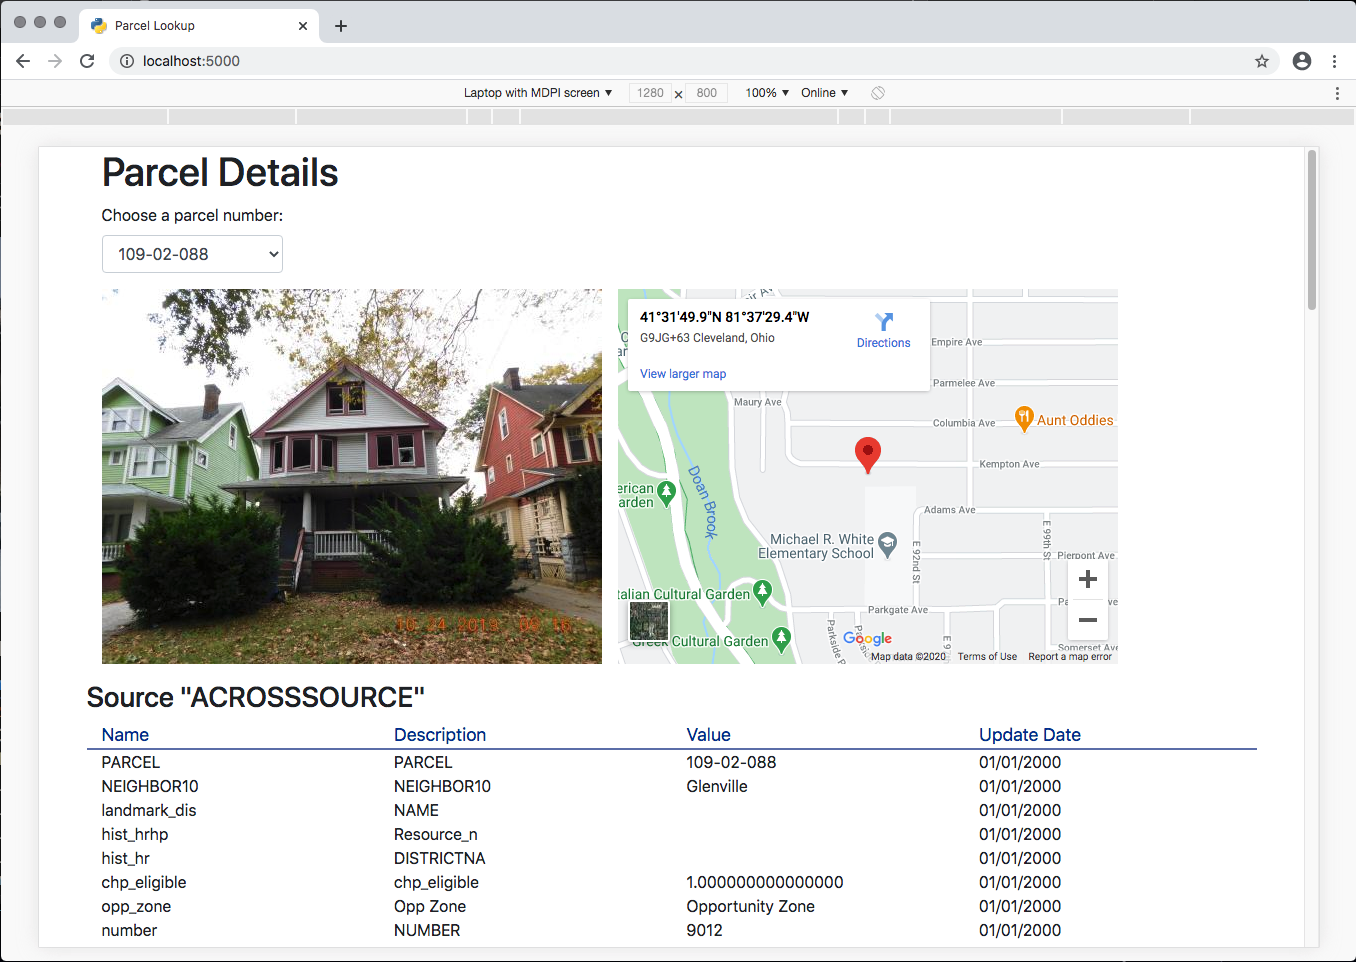
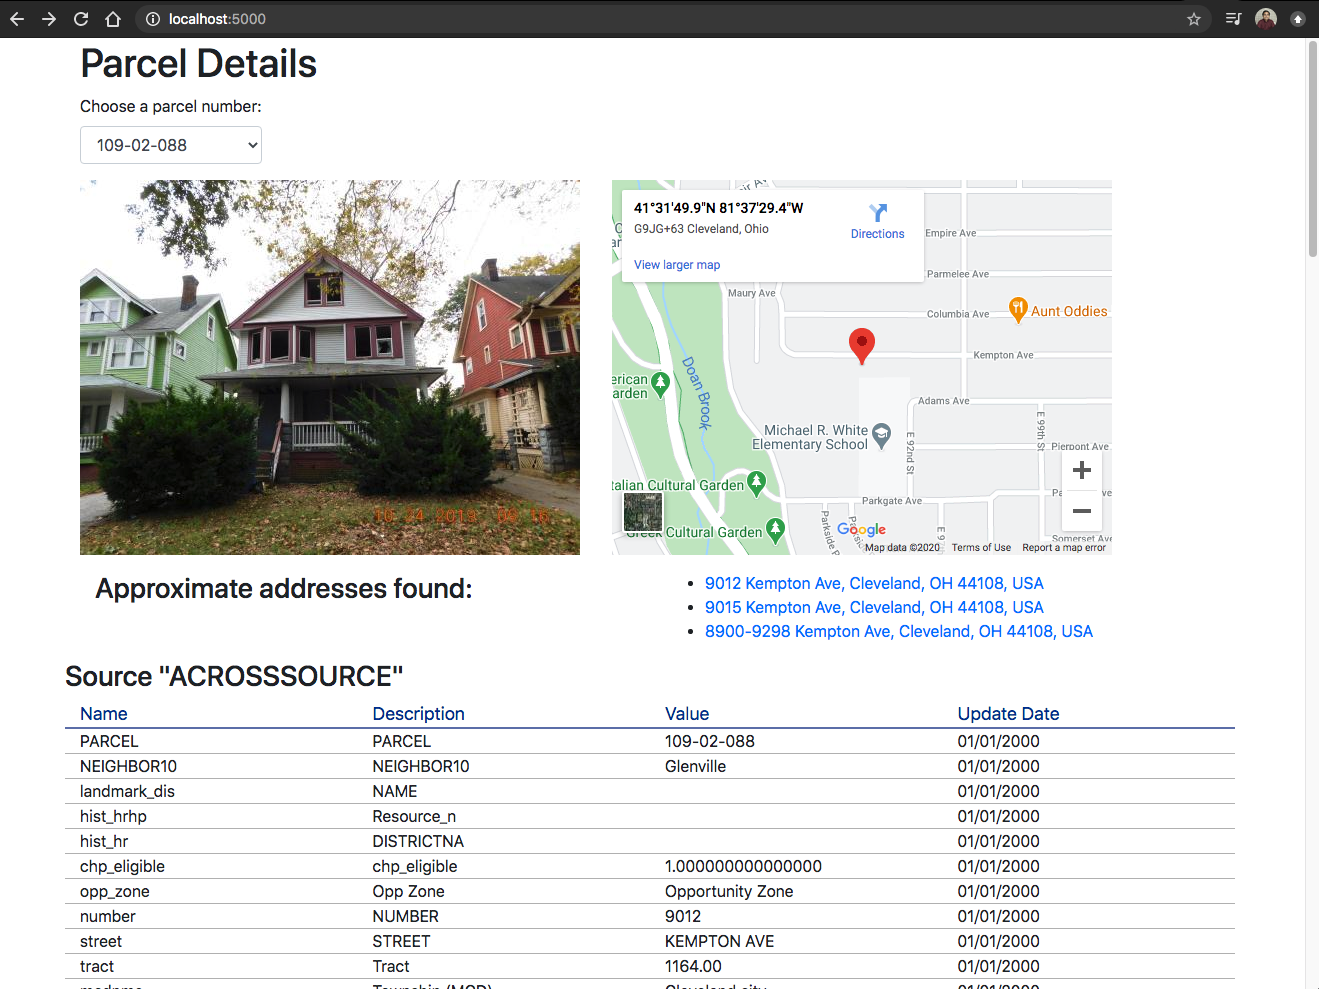
Added approximate addresses based on reverse geocoding google maps api, visual changes

diff --git a/cle_parcel_lookup/static/parcel.js b/cle_parcel_lookup/static/parcel.js
@@ -8,11 +8,29 @@ function updateData() {
 	});
 }
 
+const apiKey = 'APIKEY';
+
 function loadMap(latitude, longitude) {
-	const apiKey = 'APIKEY';
 	let mapUrl = `https://www.google.com/maps/embed/v1/place?key=${apiKey}&q=${latitude},${longitude}`;
 	map_frame=`<iframe width="500" height="375" frameborder="0" style="border:0" src="${mapUrl}" allowfullscreen></iframe>`;
 	$('#map').html(map_frame);
+}
+
+function reverseLookup(latitude, longitude) {
+    let mapUrl = `https://maps.googleapis.com/maps/api/geocode/json?key=${apiKey}&latlng=${latitude},${longitude}`;
+    $.ajax({
+        url: mapUrl
+    }).done(function(data){
+        let formattedAddressesHtml = '<ul>';
+        for (i = 0; i < data.results.length; i++) {
+            formattedAddressesHtml += `<li class="formatted_address"><a href="https://www.google.com/maps?q=${data.results[i].formatted_address}" target="_blank">${data.results[i].formatted_address}</a></li>`;
+            if (data.results[i].formatted_address.includes('-')) {
+                break;
+            }
+        }
+        formattedAddressesHtml += '</ul>';
+        $('#reverseLookup').html(formattedAddressesHtml);
+    });
 }
 
 function getHtml(responseJson) {
@@ -29,29 +47,30 @@ function getHtml(responseJson) {
         html += '</div>';
 
         if(record) {
-                html += '<div class="row">';
-                html += '<div class="col header">Name</div>';
-                html += '<div class="col header">Description</div>';
-                html += '<div class="col header">Value</div>';
-                html += '<div class="col-sm header">Update Date</div>';
+            html += '<div class="row">';
+            html += '<div class="col header">Name</div>';
+            html += '<div class="col header">Description</div>';
+            html += '<div class="col header">Value</div>';
+            html += '<div class="col-sm header">Update Date</div>';
+            html += '<div class="w-100"></div>';
+            for(const [key,value] of Object.entries(record)){
+                html += `<div class="col rowData">${key}</div>`;
+                html += `<div class="col rowData">${value.description ? value.description : ''}</div>`;
+                html += `<div class="col rowData">${value.value ? value.value : ''}</div>`;
+                html += `<div class="col-sm rowData">${value.update_date}</div>`;
                 html += '<div class="w-100"></div>';
-                for(const [key,value] of Object.entries(record)){
-                        html += `<div class="col">${key}</div>`;
-                        html += `<div class="col">${value.description ? value.description : ''}</div>`;
-                        html += `<div class="col">${value.value ? value.value : ''}</div>`;
-                        html += `<div class="col-sm">${value.update_date}</div>`;
-                        html += '<div class="w-100"></div>';
-                        if(key === 'LATITUDE') {
-                                latitude = value.value;
-                        }
-                        if(key === 'LONGITUDE') {
-                                longitude = value.value;
-                        }
-                } 
-                html += '</div>';
+                if(key === 'LATITUDE') {
+                    latitude = value.value;
+                }
+                if(key === 'LONGITUDE') {
+                    longitude = value.value;
+                }
+            } 
+            html += '</div>';
         }
 	});
-	loadMap(latitude, longitude);
+    loadMap(latitude, longitude);
+    reverseLookup(latitude, longitude);
 	return html;
 }
 

diff --git a/cle_parcel_lookup/templates/cle_parcel_lookup/index.html b/cle_parcel_lookup/templates/cle_parcel_lookup/index.html
@@ -12,30 +12,36 @@
             </noscript>
             <div class="container">
                 <div class="row">
-                        <h1>Parcel Details</h1>
+                    <h1>Parcel Details</h1>
                 </div>
                 <div class="row">
-                        <form>
-                                <div class="form-group">
-                                        <label for="parcelSelect">Choose a parcel number:</label>
-                                        <select class="form-control" id="parcelSelect">
-                                                <option>109-02-088</option>
-                                                <option>109-21-100</option>
-                                                <option>136-18-117</option>
-                                                <option>672-06-054</option>
-                                                <option>673-12-062</option>
-                                        </select>
-                                </div>
-                        </form>
-                </div>
-                <div class="row">
-                        <img id="parcelImage" src="{{ url_for('static', filename='500_375.png') }}" width="500" height="375"/>
-                        <div id="map">
-                                <iframe width="500" height="375" frameborder="0" style="border: 0" src="{{ url_for('static', filename='500_375.png') }}" allowfullscreen></iframe>
+                    <form>
+                        <div class="form-group">
+                                <label for="parcelSelect">Choose a parcel number:</label>
+                                <select class="form-control" id="parcelSelect">
+                                        <option>109-02-088</option>
+                                        <option>109-21-100</option>
+                                        <option>136-18-117</option>
+                                        <option>672-06-054</option>
+                                        <option>673-12-062</option>
+                                </select>
                         </div>
+                    </form>
                 </div>
                 <div class="row">
-                        <p id="data"></p>
+                    <img id="parcelImage" src="{{ url_for('static', filename='500_375.png') }}" width="500" height="375"/>
+                    <div id="map">
+                        <iframe width="500" height="375" frameborder="0" style="border: 0" src="{{ url_for('static', filename='500_375.png') }}" allowfullscreen></iframe>
+                    </div>
+                </div>
+                <div class="row">
+                    <div class="col">
+                        <h3>Approximate addresses found:</h3>
+                    </div>
+                    <div class="col" id="reverseLookup"></div>
+                </div>
+                <div class="row">
+                    <p id="data"></p>
                 </div>
             </div>
 {% endblock %}

diff --git a/cle_parcel_lookup/static/style.css b/cle_parcel_lookup/static/style.css
@@ -11,12 +11,19 @@
 	font-size: 18px;
 }
 
+.formattedAddresses {
+    margin-left: 0.5em;
+}
+
 #parcelImage {
-	float: left;
-	margin-right: 1em;
+    margin-right: 2em;
 }
 
 #map {
 	width: 500px;
-	height: 375px;
+    height: 375px;
+}
+
+.rowData {
+    border-bottom: 1px solid rgb(185, 185, 185);
 }
